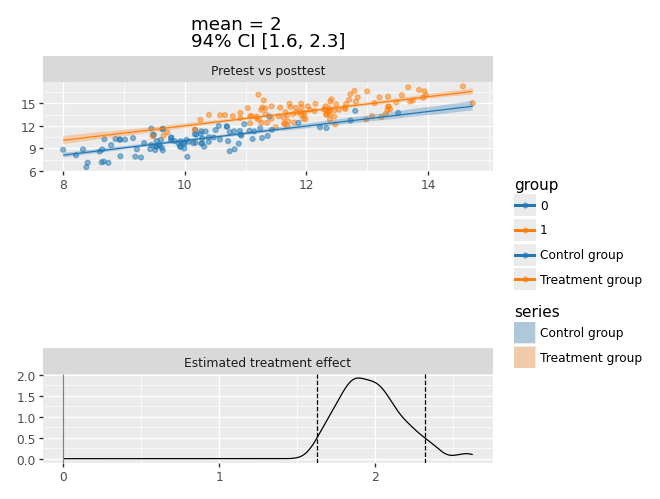
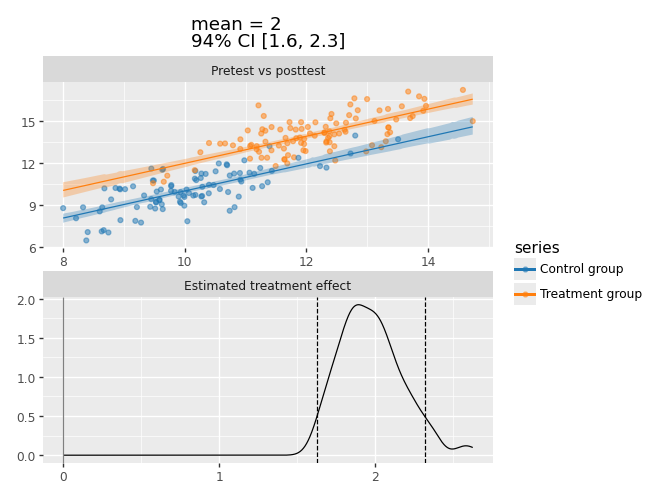
[plotting] Unify PrePostNEGD legend and fix panel spacing (#988)
Relabel scatter points to the same Control/Treatment series names as the
posterior bands so points, lines and bands share a single legend (the fill
guide is suppressed). Drop the oversized panel_spacing that left a large
vertical gap between the two facets.

diff --git a/causalpy/experiments/prepostnegd.py b/causalpy/experiments/prepostnegd.py
@@ -37,7 +37,6 @@ from plotnine import (
     labs,
     scale_color_manual,
     scale_fill_manual,
-    theme,
 )
 
 from causalpy.constants import HDI_PROB, LEGEND_FONT_SIZE
@@ -371,11 +370,15 @@ class PrePostNEGD(BaseExperiment):
         bottom = "Estimated treatment effect"
         interval = "eti" if ci_kind == "eti" else "hdi"
 
-        # Top facet: observed data as (_x=pre, _y=post).
-        scatter = self.data[["pre", "post", "group"]].rename(
-            columns={"pre": "_x", "post": "_y"}
+        # Top facet: observed data as (_x=pre, _y=post). Relabel the two group
+        # levels to the same names as the posterior bands so points, lines and
+        # bands share a single legend (group 0 = control, 1 = treatment).
+        levels = sorted(self.data[self.group_variable_name].unique())
+        group_to_series = {levels[0]: "Control group", levels[1]: "Treatment group"}
+        scatter = self.data[["pre", "post"]].rename(columns={"pre": "_x", "post": "_y"})
+        scatter["series"] = (
+            self.data[self.group_variable_name].map(group_to_series).values
         )
-        scatter["group"] = scatter["group"].astype(str)
         scatter["panel"] = top
 
         # Top facet: posterior predictive bands for each group. tidydraws keeps
@@ -445,19 +448,15 @@ class PrePostNEGD(BaseExperiment):
                 frame["panel"], categories=panels, ordered=True
             )
 
-        colors = {
-            "0": "#1f77b4",
-            "1": "#ff7f0e",
-            "Control group": "#1f77b4",
-            "Treatment group": "#ff7f0e",
-        }
+        colors = {"Control group": "#1f77b4", "Treatment group": "#ff7f0e"}
         return (
             ggplot()
-            + geom_point(scatter, aes("_x", "_y", color="group"), alpha=0.5)
+            + geom_point(scatter, aes("_x", "_y", color="series"), alpha=0.5)
             + geom_ribbon(
                 bands,
                 aes("_x", ymin="mu_lower", ymax="mu_upper", fill="series"),
                 alpha=0.3,
+                show_legend=False,
             )
             + geom_line(bands, aes("_x", "_y", color="series"))
             + geom_density(effect_df, aes("_x"))
@@ -474,7 +473,6 @@ class PrePostNEGD(BaseExperiment):
             + scale_color_manual(values=colors, name="")
             + scale_fill_manual(values=colors, name="")
             + labs(x="", y="", title=mean_label)
-            + theme(panel_spacing=0.25)
         )
 
     def _bayesian_plot_mpl(